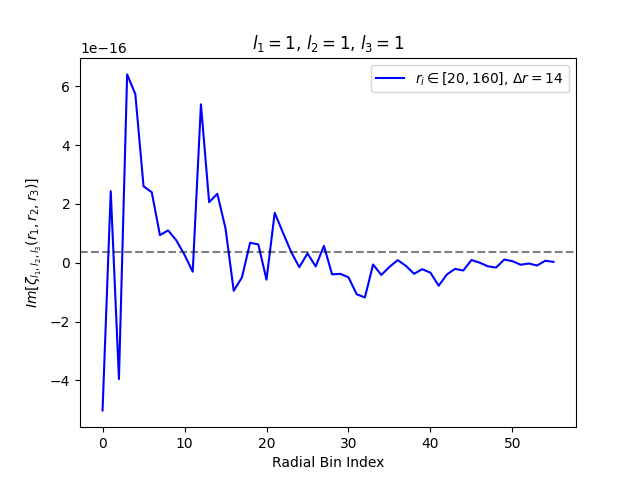
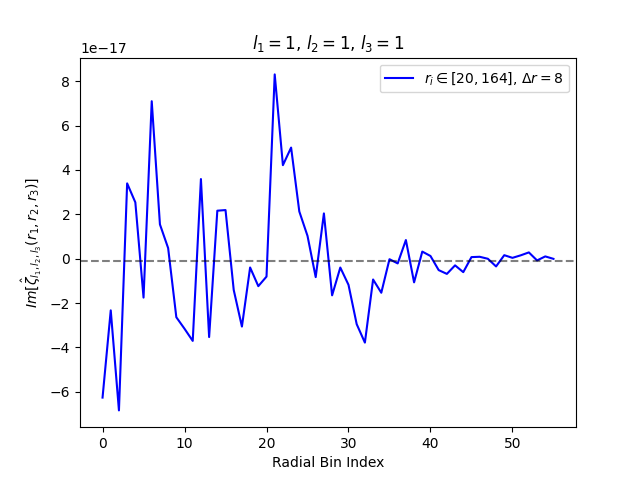
In progress

diff --git a/fourPCF_estimator.py b/fourPCF_estimator.py
@@ -97,8 +97,8 @@ elif choice == 2:
 
 # Estimate 4PCF of test sample
 l1 = 1
-l2 = 1
-l3 = 1
+l2 = 2
+l3 = 2
 zeta = []
 
 if choice == 1:
@@ -117,23 +117,12 @@ elif choice == 2:
     np.save(f"zeta{l1}{l2}{l3}_test_sample2.npy", zeta)
 print(zeta)
 
-# zeta = np.load("zeta111_test_sample2.npy")
+# zeta = np.load(f"zeta{l1}{l2}{l3}_test_sample{choice}.npy")
 # plt.plot(np.arange(len(zeta)), zeta, color="blue", label=r"$r_{i}\in[20, 164]$, $\Delta r = 8$")
 # plt.xlabel("Radial Bin Index")
-# plt.ylabel(r"$Im[\zeta_{l_{1}, l_{2}, l_{3}}(r_{1}, r_{2}, r_{3})]$")
+# plt.ylabel(r"$Im[\hat{\zeta}_{l_{1}, l_{2}, l_{3}}(r_{1}, r_{2}, r_{3})]$")
 # plt.axhline(np.mean(zeta), linestyle="--", color="black", alpha=0.5)
-# plt.title(r"$l_{1}=1$, $l_{2}=1$, $l_{3}=1$")
+# plt.title(fr"$l_{1}={l1}$, $l_{2}={l2}$, $l_{3}={l3}$")
 # plt.legend(loc="best")
-# plt.savefig("Figure/zeta111_test_sample2.png")
-# plt.show()
-
-# zeta = np.load("zeta111_test_sample2.npy")
-# rzeta = [r1 * r2 * r3 * z for ((r1, r2, r3), z) in zip(radial_bins, zeta)]
-# plt.plot(np.arange(len(rzeta)), rzeta, color="blue", label=r"$r_{i}\in[20, 164]$, $\Delta r = 8$")
-# plt.xlabel("Radial Bin Index")
-# plt.ylabel(r"$r_{1}r_{2}r_{3}Im[\zeta_{l_{1}, l_{2}, l_{3}}(r_{1}, r_{2}, r_{3})]$")
-# plt.axhline(np.mean(rzeta), linestyle="--", color="black", alpha=0.5)
-# plt.title(r"$l_{1}=1$, $l_{2}=1$, $l_{3}=1$")
-# plt.legend(loc="best")
-# plt.savefig("Figure/rzeta111_test_sample2.png")
+# plt.savefig(f"Figure/zeta{l1}{l2}{l3}_test_sample{choice}.png")
 # plt.show()
